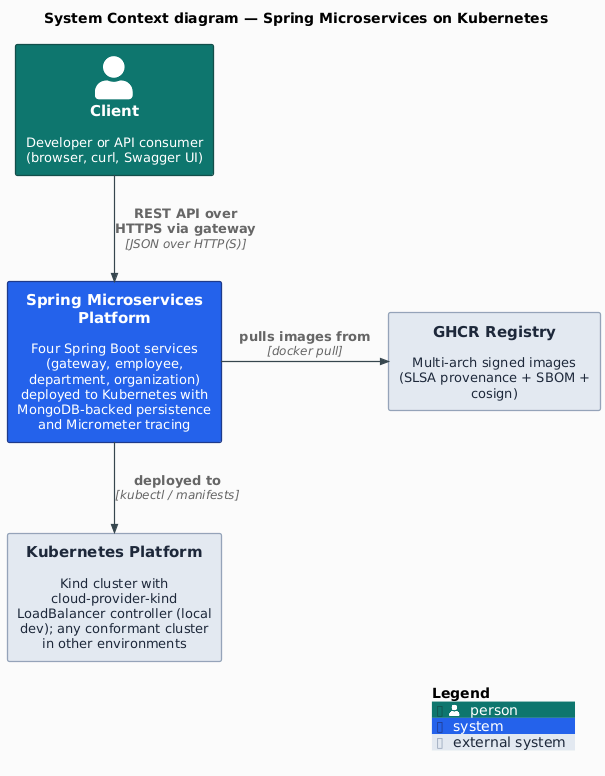
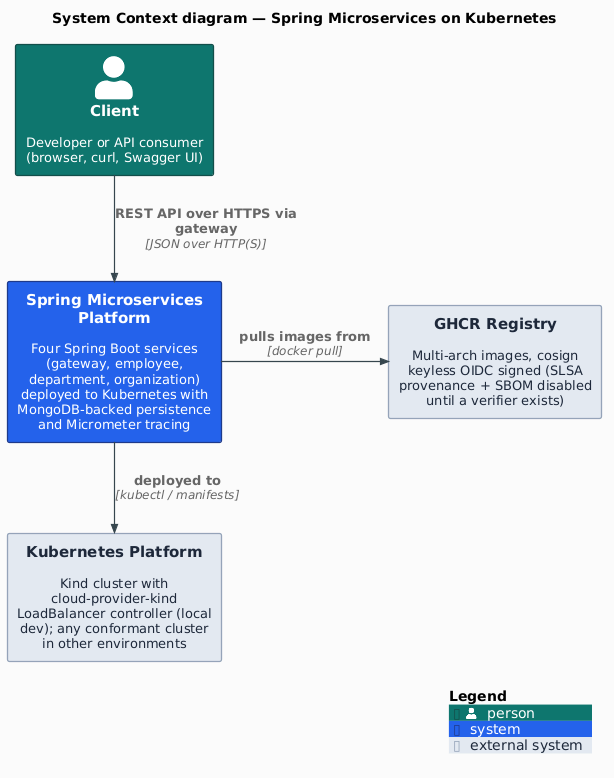
chore: upgrade-analysis follow-ups — drop tomcat override, mongo 8.0 LTS, kind node + kubectl pins, doc/diagram sync
Backlog items closed (CLAUDE.md upgrade backlog):

- #1b Drop tomcat-embed-core override: SB 4.1.0 BOM ships <tomcat.version>11.0.22
  (exact parity), so the override in all 4 module poms is redundant. Removed it
  and the matching tomcat entry from renovate.json's CVE-override rule. Verified
  `mvn dependency:tree` still resolves tomcat-embed-core:11.0.22 (now BOM-sourced)
  — zero version change, CVE-2026-34483/-34486/-34487 fix floor preserved.

- #5 MongoDB cadence decision: pinned the 8.0 LTS line (EOL 2029-10-31) over the
  short-lived rapid-release lines, aligning with the repo's LTS-first stance
  (Java 25 LTS). Re-pinned mongo:8.3.4 -> 8.0.26 across the k8s manifest (digest
  sha256:45b422ba...), the 14 Testcontainers MongoDBContainer usages, and the
  reference-architecture doc. Constrained Renovate to allowedVersions /^8\.0\./
  in the MongoDB group. Safe downgrade: all data is ephemeral (fresh Kind PVC +
  make populate; throwaway Testcontainers), so FCV is set fresh at first boot.

- #10 KIND_NODE_IMAGE was off-catalog: v1.35.0 is not in kind 0.32.0's pre-built
  catalog (which ships v1.35.5); the Makefile comment still described kind 0.31.0.
  Bumped to v1.35.5 + digest and documented that kindest/node is intentionally
  NOT Renovate-tracked because it is version-locked to the kind CLI.

Also:
- Pinned kubectl 1.35.6 in .mise.toml (was unguarded system kubectl), on the
  1.35 line to match the cluster node; Renovate-tracked.
[…]

Changed region(s): [[0.0298, 0.0, 1.0, 0.866], [0.714, 0.866, 0.9818, 0.9897]]

diff --git a/department-service/src/test/java/vmware/services/department/DepartmentControllerTest.java b/department-service/src/test/java/vmware/services/department/DepartmentControllerTest.java
@@ -27,7 +27,8 @@ import vmware.services.department.repository.DepartmentRepository;
 @ActiveProfiles("test")
 class DepartmentControllerTest {
 
-  @Container @ServiceConnection static MongoDBContainer mongo = new MongoDBContainer("mongo:8.3.4");
+  @Container @ServiceConnection
+  static MongoDBContainer mongo = new MongoDBContainer("mongo:8.0.26");
 
   @Autowired RestTestClient client;
 

diff --git a/department-service/src/test/java/vmware/services/department/DepartmentNotFoundIT.java b/department-service/src/test/java/vmware/services/department/DepartmentNotFoundIT.java
@@ -24,7 +24,8 @@ import org.testcontainers.mongodb.MongoDBContainer;
 @ActiveProfiles("test")
 class DepartmentNotFoundIT {
 
-  @Container @ServiceConnection static MongoDBContainer mongo = new MongoDBContainer("mongo:8.3.4");
+  @Container @ServiceConnection
+  static MongoDBContainer mongo = new MongoDBContainer("mongo:8.0.26");
 
   @Autowired RestTestClient client;
 

diff --git a/department-service/src/test/java/vmware/services/department/DepartmentRepositoryIT.java b/department-service/src/test/java/vmware/services/department/DepartmentRepositoryIT.java
@@ -24,7 +24,8 @@ import vmware.services.department.repository.DepartmentRepository;
 @ActiveProfiles("test")
 class DepartmentRepositoryIT {
 
-  @Container @ServiceConnection static MongoDBContainer mongo = new MongoDBContainer("mongo:8.3.4");
+  @Container @ServiceConnection
+  static MongoDBContainer mongo = new MongoDBContainer("mongo:8.0.26");
 
   @Autowired DepartmentRepository repository;
 

diff --git a/department-service/src/test/java/vmware/services/department/DepartmentWithEmployeesIT.java b/department-service/src/test/java/vmware/services/department/DepartmentWithEmployeesIT.java
@@ -49,7 +49,8 @@ import vmware.services.department.repository.DepartmentRepository;
 @Import(DepartmentWithEmployeesIT.WireMockClientConfig.class)
 class DepartmentWithEmployeesIT {
 
-  @Container @ServiceConnection static MongoDBContainer mongo = new MongoDBContainer("mongo:8.3.4");
+  @Container @ServiceConnection
+  static MongoDBContainer mongo = new MongoDBContainer("mongo:8.0.26");
 
   static WireMockServer wireMock;
 

diff --git a/employee-service/src/test/java/vmware/services/employee/EmployeeControllerTest.java b/employee-service/src/test/java/vmware/services/employee/EmployeeControllerTest.java
@@ -22,7 +22,8 @@ import vmware.services.employee.repository.EmployeeRepository;
 @ActiveProfiles("test")
 class EmployeeControllerTest {
 
-  @Container @ServiceConnection static MongoDBContainer mongo = new MongoDBContainer("mongo:8.3.4");
+  @Container @ServiceConnection
+  static MongoDBContainer mongo = new MongoDBContainer("mongo:8.0.26");
 
   @Autowired RestTestClient client;
 

diff --git a/employee-service/src/test/java/vmware/services/employee/EmployeeFinderIT.java b/employee-service/src/test/java/vmware/services/employee/EmployeeFinderIT.java
@@ -29,7 +29,8 @@ import vmware.services.employee.repository.EmployeeRepository;
 @ActiveProfiles("test")
 class EmployeeFinderIT {
 
-  @Container @ServiceConnection static MongoDBContainer mongo = new MongoDBContainer("mongo:8.3.4");
+  @Container @ServiceConnection
+  static MongoDBContainer mongo = new MongoDBContainer("mongo:8.0.26");
 
   @Autowired RestTestClient client;
 

diff --git a/employee-service/src/test/java/vmware/services/employee/EmployeeNotFoundIT.java b/employee-service/src/test/java/vmware/services/employee/EmployeeNotFoundIT.java
@@ -23,7 +23,8 @@ import org.testcontainers.mongodb.MongoDBContainer;
 @ActiveProfiles("test")
 class EmployeeNotFoundIT {
 
-  @Container @ServiceConnection static MongoDBContainer mongo = new MongoDBContainer("mongo:8.3.4");
+  @Container @ServiceConnection
+  static MongoDBContainer mongo = new MongoDBContainer("mongo:8.0.26");
 
   @Autowired RestTestClient client;
 

diff --git a/employee-service/src/test/java/vmware/services/employee/EmployeeRepositoryIT.java b/employee-service/src/test/java/vmware/services/employee/EmployeeRepositoryIT.java
@@ -24,7 +24,8 @@ import vmware.services.employee.repository.EmployeeRepository;
 @ActiveProfiles("test")
 class EmployeeRepositoryIT {
 
-  @Container @ServiceConnection static MongoDBContainer mongo = new MongoDBContainer("mongo:8.3.4");
+  @Container @ServiceConnection
+  static MongoDBContainer mongo = new MongoDBContainer("mongo:8.0.26");
 
   @Autowired EmployeeRepository repository;
 

diff --git a/organization-service/src/test/java/vmware/services/organization/OrganizationControllerTest.java b/organization-service/src/test/java/vmware/services/organization/OrganizationControllerTest.java
@@ -28,7 +28,8 @@ import vmware.services.organization.repository.OrganizationRepository;
 @ActiveProfiles("test")
 class OrganizationControllerTest {
 
-  @Container @ServiceConnection static MongoDBContainer mongo = new MongoDBContainer("mongo:8.3.4");
+  @Container @ServiceConnection
+  static MongoDBContainer mongo = new MongoDBContainer("mongo:8.0.26");
 
   @Autowired RestTestClient client;
 

diff --git a/organization-service/src/test/java/vmware/services/organization/OrganizationDeepFanOutIT.java b/organization-service/src/test/java/vmware/services/organization/OrganizationDeepFanOutIT.java
@@ -51,7 +51,8 @@ import vmware.services.organization.repository.OrganizationRepository;
 @Import(OrganizationDeepFanOutIT.WireMockClientsConfig.class)
 class OrganizationDeepFanOutIT {
 
-  @Container @ServiceConnection static MongoDBContainer mongo = new MongoDBContainer("mongo:8.3.4");
+  @Container @ServiceConnection
+  static MongoDBContainer mongo = new MongoDBContainer("mongo:8.0.26");
 
   static WireMockServer departmentStub;
 

diff --git a/organization-service/src/test/java/vmware/services/organization/OrganizationNotFoundIT.java b/organization-service/src/test/java/vmware/services/organization/OrganizationNotFoundIT.java
@@ -51,7 +51,8 @@ import vmware.services.organization.repository.OrganizationRepository;
 @Import(OrganizationNotFoundIT.WireMockClientsConfig.class)
 class OrganizationNotFoundIT {
 
-  @Container @ServiceConnection static MongoDBContainer mongo = new MongoDBContainer("mongo:8.3.4");
+  @Container @ServiceConnection
+  static MongoDBContainer mongo = new MongoDBContainer("mongo:8.0.26");
 
   static WireMockServer departmentStub;
 

diff --git a/organization-service/src/test/java/vmware/services/organization/OrganizationRepositoryIT.java b/organization-service/src/test/java/vmware/services/organization/OrganizationRepositoryIT.java
@@ -27,7 +27,8 @@ import vmware.services.organization.repository.OrganizationRepository;
 @ActiveProfiles("test")
 class OrganizationRepositoryIT {
 
-  @Container @ServiceConnection static MongoDBContainer mongo = new MongoDBContainer("mongo:8.3.4");
+  @Container @ServiceConnection
+  static MongoDBContainer mongo = new MongoDBContainer("mongo:8.0.26");
 
   @Autowired OrganizationRepository repository;
 